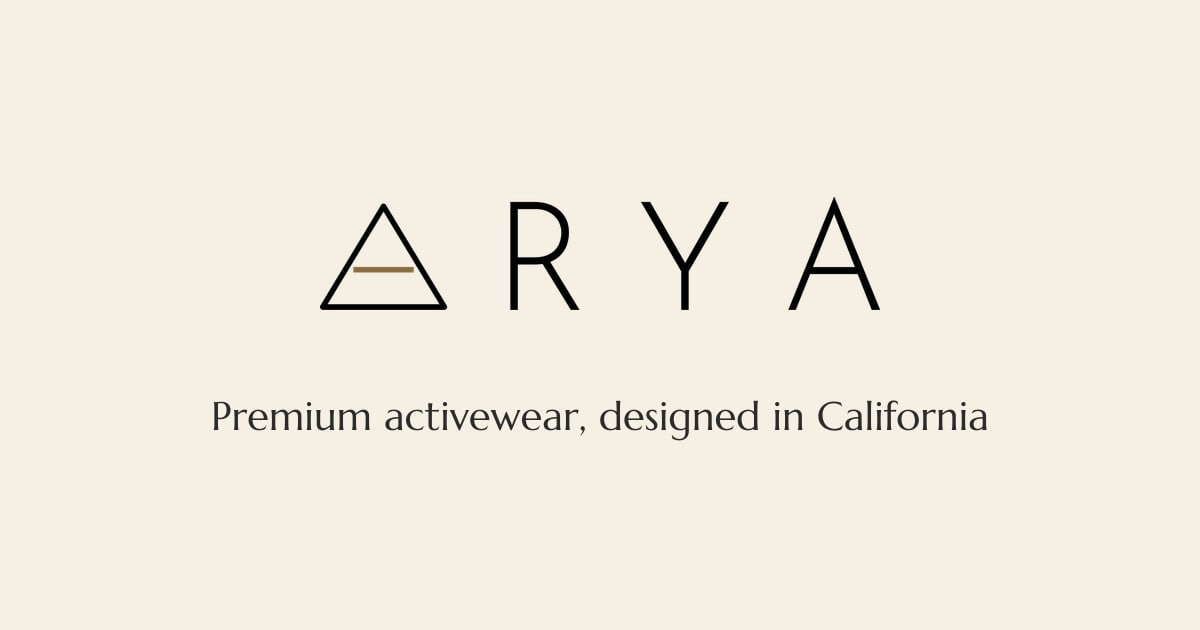
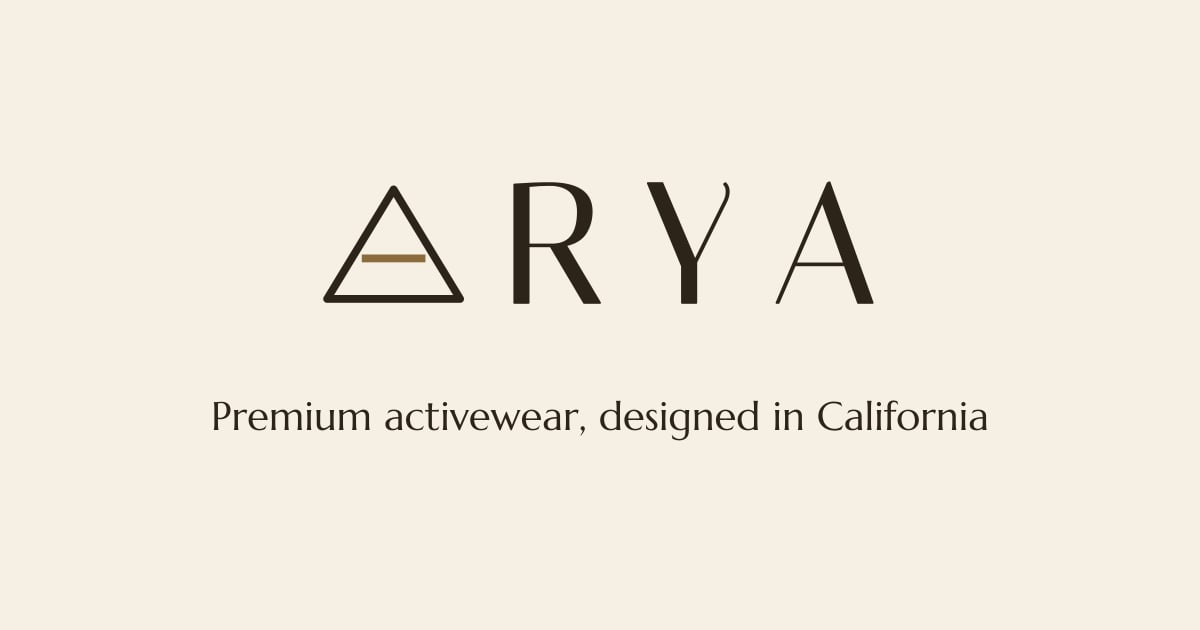
Use the Italiana wordmark SVGs across the site
Espresso wordmark on light backgrounds, ivory over the open hero and
in the footer, on every page. The share image is rebuilt with the new
wordmark. Uses the reinforced cut so the hairlines hold at nav size.

Changed region(s): [[0.2467, 0.2714, 0.5242, 0.5127], [0.5242, 0.2714, 0.6167, 0.4825], [0.6475, 0.3016, 0.74, 0.4825]]

diff --git a/index.html b/index.html
@@ -45,7 +45,7 @@
   <link rel="stylesheet" href="https://fonts.googleapis.com/css2?family=Marcellus&family=Instrument+Sans:wght@400;500&display=swap">
   <link rel="preload" as="image" href="assets/cove-poster-landscape.webp?v=2" media="(min-width: 768px)">
   <link rel="preload" as="image" href="assets/cove-poster-portrait.webp?v=3" media="(max-width: 767px)">
-  <link rel="stylesheet" href="styles.css?v=14">
+  <link rel="stylesheet" href="styles.css?v=15">
 </head>
 <body>
   <a class="skip-link" href="#main">Skip to content</a>
@@ -62,8 +62,8 @@
   <header class="site-header" data-header>
     <nav class="nav" aria-label="Main">
       <a href="#top" class="brand" aria-label="ARYA, home">
-        <img class="wordmark wordmark-dark" src="assets/wordmark-dark.png" alt="" width="480" height="137">
-        <img class="wordmark wordmark-light" src="assets/wordmark-light.png" alt="" width="480" height="137">
+        <img class="wordmark wordmark-dark" src="assets/wordmark-espresso.svg" alt="" width="468" height="112">
+        <img class="wordmark wordmark-light" src="assets/wordmark-ivory.svg" alt="" width="468" height="112">
       </a>
       <ul class="nav-links">
         <li><a href="#fit">Fit</a></li>
@@ -280,7 +280,7 @@
     <div class="wrap footer-grid">
       <div>
         <a href="#top" class="brand" aria-label="ARYA, back to top">
-          <img class="wordmark" src="assets/wordmark-light.png" alt="" width="480" height="137" loading="lazy">
+          <img class="wordmark" src="assets/wordmark-ivory.svg" alt="" width="468" height="112" loading="lazy">
         </a>
         <p class="footer-line">Premium activewear, done right.</p>
       </div>

diff --git a/privacy.html b/privacy.html
@@ -23,14 +23,14 @@
   <link rel="preconnect" href="https://fonts.googleapis.com">
   <link rel="preconnect" href="https://fonts.gstatic.com" crossorigin>
   <link rel="stylesheet" href="https://fonts.googleapis.com/css2?family=Marcellus&family=Instrument+Sans:wght@400;500&display=swap">
-  <link rel="stylesheet" href="/styles.css?v=13">
+  <link rel="stylesheet" href="/styles.css?v=15">
 </head>
 <body class="legal-page">
   <a class="skip-link" href="#main">Skip to content</a>
   <header class="site-header is-solid">
     <nav class="nav" aria-label="Main">
       <a href="/" class="brand" aria-label="ARYA, home">
-        <img class="wordmark wordmark-dark" src="/assets/wordmark-dark.png" alt="" width="480" height="137">
+        <img class="wordmark wordmark-dark" src="/assets/wordmark-espresso.svg" alt="" width="468" height="112">
       </a>
       <a href="/#first-drop" class="nav-cta">Don't miss the first drop</a>
     </nav>
@@ -85,7 +85,7 @@
     <div class="wrap footer-grid">
       <div>
         <a href="/" class="brand" aria-label="ARYA, home">
-          <img class="wordmark" src="/assets/wordmark-light.png" alt="" width="480" height="137" loading="lazy">
+          <img class="wordmark" src="/assets/wordmark-ivory.svg" alt="" width="468" height="112" loading="lazy">
         </a>
         <p class="footer-line">Premium activewear, done right.</p>
       </div>

diff --git a/shipping-returns.html b/shipping-returns.html
@@ -23,14 +23,14 @@
   <link rel="preconnect" href="https://fonts.googleapis.com">
   <link rel="preconnect" href="https://fonts.gstatic.com" crossorigin>
   <link rel="stylesheet" href="https://fonts.googleapis.com/css2?family=Marcellus&family=Instrument+Sans:wght@400;500&display=swap">
-  <link rel="stylesheet" href="/styles.css?v=13">
+  <link rel="stylesheet" href="/styles.css?v=15">
 </head>
 <body class="legal-page">
   <a class="skip-link" href="#main">Skip to content</a>
   <header class="site-header is-solid">
     <nav class="nav" aria-label="Main">
       <a href="/" class="brand" aria-label="ARYA, home">
-        <img class="wordmark wordmark-dark" src="/assets/wordmark-dark.png" alt="" width="480" height="137">
+        <img class="wordmark wordmark-dark" src="/assets/wordmark-espresso.svg" alt="" width="468" height="112">
       </a>
       <a href="/#first-drop" class="nav-cta">Don't miss the first drop</a>
     </nav>
@@ -75,7 +75,7 @@
     <div class="wrap footer-grid">
       <div>
         <a href="/" class="brand" aria-label="ARYA, home">
-          <img class="wordmark" src="/assets/wordmark-light.png" alt="" width="480" height="137" loading="lazy">
+          <img class="wordmark" src="/assets/wordmark-ivory.svg" alt="" width="468" height="112" loading="lazy">
         </a>
         <p class="footer-line">Premium activewear, done right.</p>
       </div>

diff --git a/terms.html b/terms.html
@@ -23,14 +23,14 @@
   <link rel="preconnect" href="https://fonts.googleapis.com">
   <link rel="preconnect" href="https://fonts.gstatic.com" crossorigin>
   <link rel="stylesheet" href="https://fonts.googleapis.com/css2?family=Marcellus&family=Instrument+Sans:wght@400;500&display=swap">
-  <link rel="stylesheet" href="/styles.css?v=13">
+  <link rel="stylesheet" href="/styles.css?v=15">
 </head>
 <body class="legal-page">
   <a class="skip-link" href="#main">Skip to content</a>
   <header class="site-header is-solid">
     <nav class="nav" aria-label="Main">
       <a href="/" class="brand" aria-label="ARYA, home">
-        <img class="wordmark wordmark-dark" src="/assets/wordmark-dark.png" alt="" width="480" height="137">
+        <img class="wordmark wordmark-dark" src="/assets/wordmark-espresso.svg" alt="" width="468" height="112">
       </a>
       <a href="/#first-drop" class="nav-cta">Don't miss the first drop</a>
     </nav>
@@ -79,7 +79,7 @@
     <div class="wrap footer-grid">
       <div>
         <a href="/" class="brand" aria-label="ARYA, home">
-          <img class="wordmark" src="/assets/wordmark-light.png" alt="" width="480" height="137" loading="lazy">
+          <img class="wordmark" src="/assets/wordmark-ivory.svg" alt="" width="468" height="112" loading="lazy">
         </a>
         <p class="footer-line">Premium activewear, done right.</p>
       </div>

diff --git a/styles.css b/styles.css
@@ -118,13 +118,13 @@ main:focus { outline: none; }
 }
 .brand { display: inline-flex; align-items: center; gap: 0.8rem; min-height: 44px; text-decoration: none; --mark-bar: var(--bronze); }
 .on-image .brand { --mark-bar: var(--brass); }
-.wordmark { height: 1.35rem; width: auto; }
+.wordmark { height: 1.5rem; width: auto; }
 .wordmark-light { display: none; }
 .site-header.on-image .wordmark-dark { display: none; }
 .site-header.on-image .wordmark-light { display: block; }
 .site-header.menu-open .wordmark-dark { display: block; }
 .site-header.menu-open .wordmark-light { display: none; }
-.site-footer .wordmark { height: 1.6rem; }
+.site-footer .wordmark { height: 1.9rem; }
 
 .nav-links { display: none; gap: 2rem; margin-left: auto; }
 .nav-links a, .nav-cta {
@@ -560,7 +560,7 @@ html.lenis, html.lenis body { height: auto; }
   .origin-grid { align-items: center; }
 }
 .legal-page .nav-cta { white-space: nowrap; }
-@media (max-width: 480px) { .legal-page .nav-cta { padding-inline: 0.75rem; font-size: 0.8125rem; letter-spacing: 0.01em; } .legal-page .wordmark { height: 1.15rem; } }
+@media (max-width: 480px) { .legal-page .nav-cta { padding-inline: 0.75rem; font-size: 0.8125rem; letter-spacing: 0.01em; } .legal-page .wordmark { height: 1.3rem; } }
 
 /* Name + origin, one chapter */
 .origin-text .lede { margin-top: 1.5rem; max-width: 32em; }
